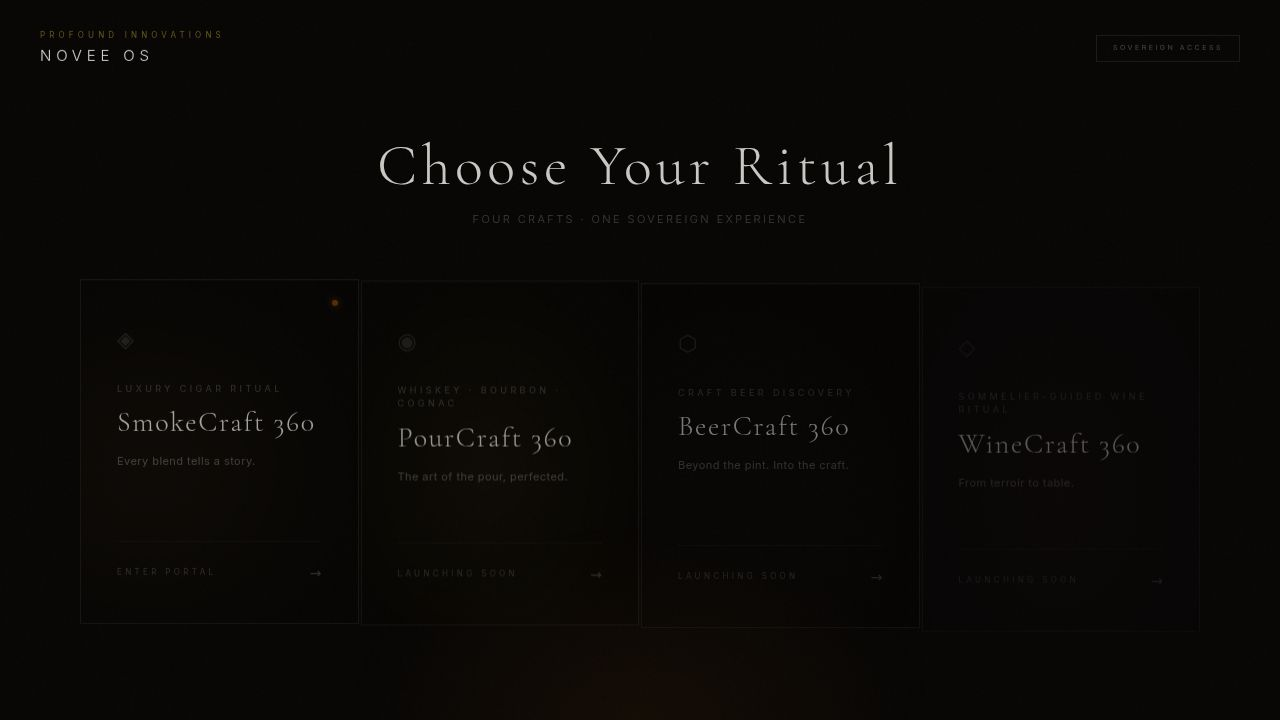
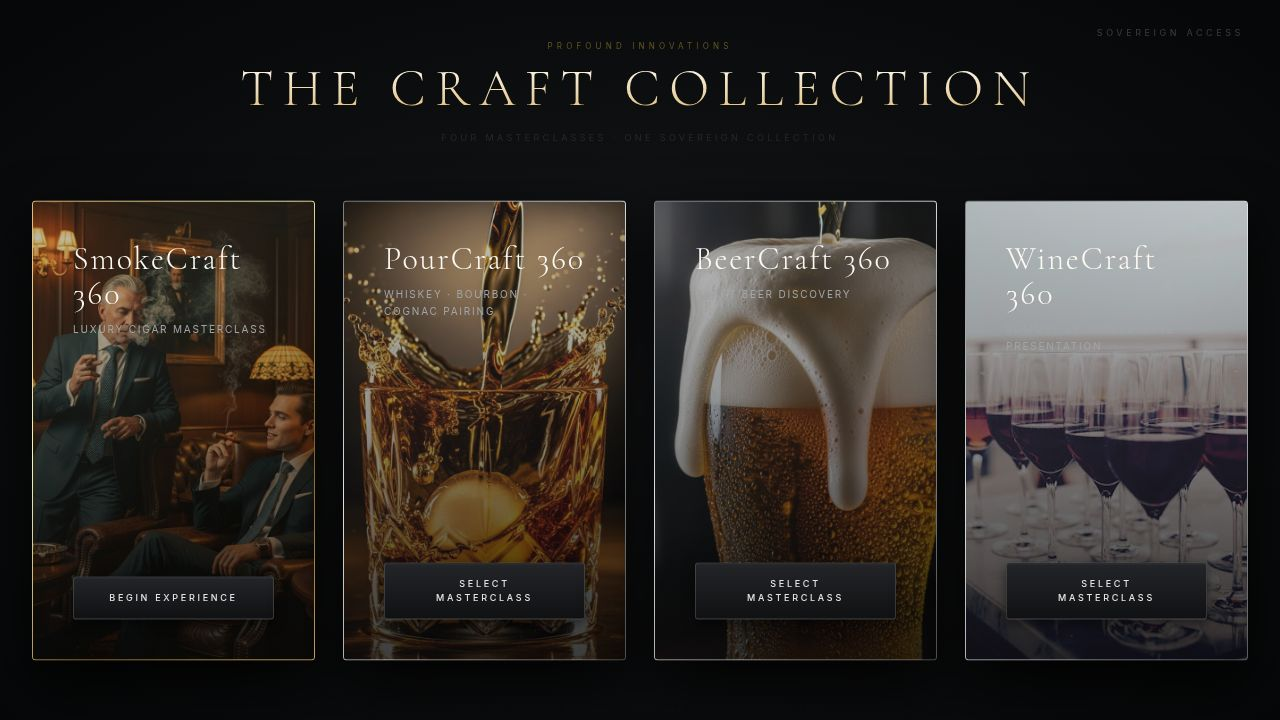
feat(eat-dashboard): craft type breakdown chart on Top Products tab
Task #188 — Show a craft type breakdown chart on the Top Products tab

## Backend
- Added GET /api/kernel/telemetry/products/by-craft endpoint in
  artifacts/api-server/src/routes/kernel.ts
- Accepts ?days=N (default 30, max 365), same window param as the
  products list endpoint
- Aggregates swipe_add + swipe_skip counts per craftType, with
  payload->>'cardId' IS NOT NULL filter for consistency with the
  products list endpoint scope
- Always returns all four craft types (zero-filled when no events)
- Placed before the /:cardId/trend parameterised route to avoid conflicts

## Frontend
- Added PieChart, Pie to recharts imports in EATDashboard.tsx
- Added CraftBreakdownPoint interface
- Added craftBreakdown state in the main dashboard component
- fetchProducts: resets craftBreakdown to [] before each fetch,
  fires a parallel fetch to /by-craft (always unfiltered), and clears
  to [] on fetch failure to prevent stale data display
- New CraftBreakdownChart component renders:
  - 120×120 donut (innerRadius 34, outerRadius 54) with per-craft colours
    matching the existing CRAFT_FILTERS palette
  - Center label showing grand total interactions
  - Graceful "NO DATA" circle when all totals are zero
  - Custom Recharts Tooltip showing craft name, adds, skips, % of total
  - Legend rows with colour swatch, craft name, proportion bar, count, %
  - Clicking a donut segment OR a legend row activates the matching craft
    filter pill; clicking the active craft reverts to "all"
[…]

diff --git a/artifacts/novee/src/pages/EATDashboard.tsx b/artifacts/novee/src/pages/EATDashboard.tsx
@@ -15,6 +15,7 @@ import { useLocation } from "wouter";
 import {
   LineChart, Line, BarChart, Bar,
   XAxis, YAxis, CartesianGrid, Tooltip, Legend, ResponsiveContainer, Cell,
+  PieChart, Pie,
 } from "recharts";
 import { apiFetch } from "@/lib/api";
 
@@ -419,6 +420,13 @@ interface TrendPoint {
   skips: number;
 }
 
+interface CraftBreakdownPoint {
+  craft_type: string;
+  adds: number;
+  skips: number;
+  total: number;
+}
+
 type CraftFilter = "all" | "smoke" | "pour" | "brew" | "vape";
 
 const CRAFT_FILTERS: { id: CraftFilter; label: string; color: string }[] = [
@@ -616,6 +624,7 @@ export default function EATDashboard() {
   const [productsLoading, setProductsLoading] = useState(false);
   const [craftFilter, setCraftFilterState]  = useState<CraftFilter>(() => parseCraftFilterFromSearch(window.location.search));
   const [productTrends, setProductTrends]   = useState<Map<string, TrendPoint[]>>(new Map());
+  const [craftBreakdown, setCraftBreakdown] = useState<CraftBreakdownPoint[]>([]);
 
   // ── Mute state ────────────────────────────────────────────────────────────
   const [muteUntil, setMuteUntilState] = useState<number | null>(() => {
@@ -829,6 +838,13 @@ export default function EATDashboard() {
     setProductsLoading(true);
     setProductTrends(new Map());
     const craftParam = cf !== "all" ? `&craftType=${cf}` : "";
+
+    // Fetch breakdown (always unfiltered — shows all crafts regardless of pill)
+    setCraftBreakdown([]);
+    apiFetch<{ breakdown: CraftBreakdownPoint[] }>(`/telemetry/products/by-craft?days=${d}`)
+      .then(({ breakdown }) => setCraftBreakdown(breakdown))
+      .catch(() => setCraftBreakdown([]));
+
     apiFetch<{ products: ProductItem[] }>(`/telemetry/products?days=${d}${craftParam}`)
       .then(({ products: p }) => {
         setProducts(p);
@@ -1566,7 +1582,7 @@ export default function EATDashboard() {
             )}
             {tab === "modules"   && <ModulesTab data={data} days={days} compareEnabled={compareEnabled} compareDays={compareDays} />}
             {tab === "ritual"    && <RitualTab data={data} compareEnabled={compareEnabled} compareDays={compareDays} />}
-            {tab === "products"  && <ProductsTab products={products} loading={productsLoading} days={days} craftFilter={craftFilter} onCraftFilter={setCraftFilter} trends={productTrends} />}
+            {tab === "products"  && <ProductsTab products={products} loading={productsLoading} days={days} craftFilter={craftFilter} onCraftFilter={setCraftFilter} trends={productTrends} breakdown={craftBreakdown} />}
             {tab === "live"      && <LiveFeedTab events={recentEvents} newEventIds={newEventIds} liveLimit={liveLimit} onLimitChange={setLiveLimit} />}
           </>
         )}
@@ -2334,6 +2350,171 @@ function TrendSparkline({ trend }: { trend: TrendPoint[] | undefined }) {
   );
 }
 
+function CraftBreakdownChart({
+  breakdown,
+  craftFilter,
+  onCraftFilter,
+}: {
+  breakdown: CraftBreakdownPoint[];
+  craftFilter: CraftFilter;
+  onCraftFilter: (cf: CraftFilter) => void;
+}) {
+  const grandTotal = breakdown.reduce((s, r) => s + r.total, 0);
+  const hasData = grandTotal > 0;
+
+  const craftColor = (ct: string) =>
+    CRAFT_FILTERS.find((f) => f.id === ct)?.color ?? "#888";
+
+  // Build donut data: one slice per craft, value = adds + skips
+  const pieData = breakdown.map((r) => ({
+    name: r.craft_type.toUpperCase(),
+    value: r.total,
+    craftType: r.craft_type as CraftFilter,
+    adds: r.adds,
+    skips: r.skips,
+    color: craftColor(r.craft_type),
+  }));
+
+  return (
+    <div style={{
+      background: SURFACE,
+      border: "1px solid rgba(255,255,255,0.06)",
+      borderRadius: 10,
+      padding: "16px 20px",
+      display: "flex",
+      gap: 24,
+      alignItems: "center",
+      flexWrap: "wrap",
+    }}>
+      {/* Chart area */}
+      <div style={{ position: "relative", width: 120, height: 120, flexShrink: 0 }}>
+        {hasData ? (
+          <PieChart width={120} height={120}>
+            <Pie
+              data={pieData}
+              cx={55}
+              cy={55}
+              innerRadius={34}
+              outerRadius={54}
+              paddingAngle={2}
+              dataKey="value"
+              stroke="none"
+              onClick={(entry) => {
+                const ct = (entry as typeof pieData[number]).craftType;
+                onCraftFilter(craftFilter === ct ? "all" : ct);
+              }}
+              style={{ cursor: "pointer" }}
+            >
+              {pieData.map((entry) => (
+                <Cell
+                  key={entry.craftType}
+                  fill={entry.color}
+                  opacity={craftFilter === "all" || craftFilter === entry.craftType ? 1 : 0.28}
+                />
+              ))}
+            </Pie>
+            <Tooltip
+              content={({ active, payload }) => {
+                if (!active || !payload?.length) return null;
+                const d = payload[0]?.payload as typeof pieData[number];
+                if (!d) return null;
+                const pct = grandTotal > 0 ? ((d.value / grandTotal) * 100).toFixed(1) : "0";
+                return (
+                  <div style={{
+                    background: "rgba(18,18,20,0.95)",
+                    border: `1px solid ${d.color}`,
+                    borderRadius: 6,
+                    padding: "8px 12px",
+                    fontSize: 10,
+                    letterSpacing: "0.1em",
+                    color: "rgba(245,237,216,0.85)",
+                    minWidth: 120,
+                  }}>
+                    <div style={{ color: d.color, fontWeight: 700, marginBottom: 4 }}>{d.name}</div>
+                    <div>ADDS:  {d.adds}</div>
+                    <div>SKIPS: {d.skips}</div>
+                    <div style={{ marginTop: 4, color: "rgba(245,237,216,0.45)" }}>{pct}% of total</div>
+                  </div>
+                );
+              }}
+            />
+          </PieChart>
+        ) : (
+          <div style={{
+            width: 120, height: 120, borderRadius: "50%",
+            border: "2px solid rgba(255,255,255,0.06)",
+            display: "flex", alignItems: "center", justifyContent: "center",
+            fontSize: 9, color: "rgba(245,237,216,0.2)", letterSpacing: "0.12em",
+          }}>
+            NO DATA
+          </div>
+        )}
+        {/* Center label */}
+        <div style={{
+          position: "absolute", top: "50%", left: "50%",
+          transform: "translate(-50%,-50%)",
+          textAlign: "center", pointerEvents: "none",
+        }}>
+          <div style={{ fontSize: 14, fontWeight: 700, color: "rgba(245,237,216,0.9)", lineHeight: 1 }}>
+            {grandTotal > 999 ? `${(grandTotal / 1000).toFixed(1)}k` : grandTotal}
+          </div>
+          <div style={{ fontSize: 8, letterSpacing: "0.12em", color: "rgba(245,237,216,0.3)", marginTop: 2 }}>
+            TOTAL
+          </div>
+        </div>
+      </div>
+
+      {/* Legend / stat rows */}
+      <div style={{ flex: 1, minWidth: 180, display: "flex", flexDirection: "column", gap: 8 }}>
+        <div style={{ fontSize: 9, letterSpacing: "0.2em", color: "rgba(245,237,216,0.3)", marginBottom: 2 }}>
+          CRAFT BREAKDOWN — CLICK SEGMENT OR ROW TO FILTER
+        </div>
+        {pieData.map((entry) => {
+          const pct = grandTotal > 0 ? (entry.value / grandTotal) * 100 : 0;
+          const isActive = craftFilter === "all" || craftFilter === entry.craftType;
+          return (
+            <button
+              key={entry.craftType}
+              onClick={() => onCraftFilter(craftFilter === entry.craftType ? "all" : entry.craftType)}
+              style={{
+                background: "transparent",
+                border: "none",
+                padding: 0,
+                cursor: "pointer",
+                display: "flex",
+                alignItems: "center",
+                gap: 8,
+                opacity: isActive ? 1 : 0.35,
+                transition: "opacity 0.15s",
+              }}
+            >
+              <div style={{ width: 8, height: 8, borderRadius: 2, background: entry.color, flexShrink: 0 }} />
+              <span style={{ fontSize: 9, fontWeight: 700, letterSpacing: "0.12em", color: entry.color, width: 38, textAlign: "left" }}>
+                {entry.name}
+              </span>
+              <div style={{ flex: 1, height: 4, background: "rgba(255,255,255,0.06)", borderRadius: 2, overflow: "hidden" }}>
+                <div style={{
+                  width: `${pct}%`,
+                  height: "100%",
+                  background: entry.color,
+                  borderRadius: 2,
+                  transition: "width 0.4s ease",
+                }} />
+              </div>
+              <span style={{ fontSize: 9, color: "rgba(245,237,216,0.45)", width: 32, textAlign: "right", flexShrink: 0 }}>
+                {entry.value}
+              </span>
+              <span style={{ fontSize: 9, color: "rgba(245,237,216,0.25)", width: 36, textAlign: "right", flexShrink: 0 }}>
+                {pct.toFixed(0)}%
+              </span>
+            </button>
+          );
+        })}
+      </div>
+    </div>
+  );
+}
+
 function ProductsTab({
   products,
   loading,
@@ -2341,6 +2522,7 @@ function ProductsTab({
   craftFilter,
   onCraftFilter,
   trends,
+  breakdown,
 }: {
   products: ProductItem[];
   loading: boolean;
@@ -2348,6 +2530,7 @@ function ProductsTab({
   craftFilter: CraftFilter;
   onCraftFilter: (cf: CraftFilter) => void;
   trends: Map<string, TrendPoint[]>;
+  breakdown: CraftBreakdownPoint[];
 }) {
   const activeFilterConfig = CRAFT_FILTERS.find((f) => f.id === craftFilter) ?? CRAFT_FILTERS[0]!;
 
@@ -2372,6 +2555,9 @@ function ProductsTab({
         label="TOP PRODUCTS"
         sub={`Ranked by swipe interactions (adds + skips) over the last ${days} day${days === 1 ? "" : "s"}`}
       />
+
+      {/* Craft type breakdown donut chart */}
+      <CraftBreakdownChart breakdown={breakdown} craftFilter={craftFilter} onCraftFilter={onCraftFilter} />
 
       {/* Craft type filter pills */}
       <div style={{ display: "flex", gap: 8, flexWrap: "wrap", alignItems: "center" }}>

diff --git a/artifacts/api-server/src/routes/kernel.ts b/artifacts/api-server/src/routes/kernel.ts
@@ -727,6 +727,64 @@ router.get("/telemetry/craft-activity", async (req: Request, res: Response) => {
   }
 });
 
+// ── GET /api/kernel/telemetry/products/by-craft ───────────────────────────────
+// Returns adds + skips per craft type, scoped to the same ?days window used
+// by the /telemetry/products endpoint.  Used by the Products tab breakdown chart.
+//
+// Query params:
+//   ?days=N  — look-back window in days (default 30, max 365)
+//
+// Response: { days, breakdown: [{ craft_type, adds, skips, total }] }
+// All four craft types are always present (zeroed when no events found).
+
+router.get("/telemetry/products/by-craft", async (req: Request, res: Response) => {
+  const q = req.query as Record<string, string | undefined>;
+
+  let days = 30;
+  if (q.days !== undefined) {
+    const d = parseInt(q.days, 10);
+    if (Number.isFinite(d) && d > 0) days = Math.min(d, 365);
+  }
+
+  try {
+    const windowStart = sql`NOW() - (${days} || ' days')::interval`;
+
+    type BreakdownRow = { craft_type: string; adds: number; skips: number; total: number };
+
+    const result = await db.execute(sql`
+      SELECT
+        payload->>'craftType' AS craft_type,
+        SUM(CASE WHEN event_type = 'swipe_add'  THEN 1 ELSE 0 END)::int AS adds,
+        SUM(CASE WHEN event_type = 'swipe_skip' THEN 1 ELSE 0 END)::int AS skips,
+        COUNT(*)::int AS total
+      FROM telemetry_events
+      WHERE event_type IN ('swipe_add', 'swipe_skip')
+        AND occurred_at >= ${windowStart}
+        AND payload->>'cardId' IS NOT NULL
+        AND payload->>'craftType' IN ('smoke', 'pour', 'brew', 'vape')
+      GROUP BY payload->>'craftType'
+      ORDER BY total DESC
+    `);
+
+    const dbRows = result.rows as BreakdownRow[];
+    const byType = new Map(dbRows.map(r => [r.craft_type, r]));
+    const ALL_CRAFTS = ["smoke", "pour", "brew", "vape"] as const;
+    const breakdown = ALL_CRAFTS.map(ct => {
+      const r = byType.get(ct);
+      return {
+        craft_type: ct,
+        adds:  r?.adds  ?? 0,
+        skips: r?.skips ?? 0,
+        total: r?.total ?? 0,
+      };
+    });
+
+    return res.json({ days, breakdown });
+  } catch {
+    return res.status(500).json({ error: "Failed to load craft breakdown" });
+  }
+});
+
 // ── GET /api/kernel/telemetry/products/:cardId/trend ──────────────────────────
 // Returns daily add/skip counts for a specific product over the last N days.
 // Query params: